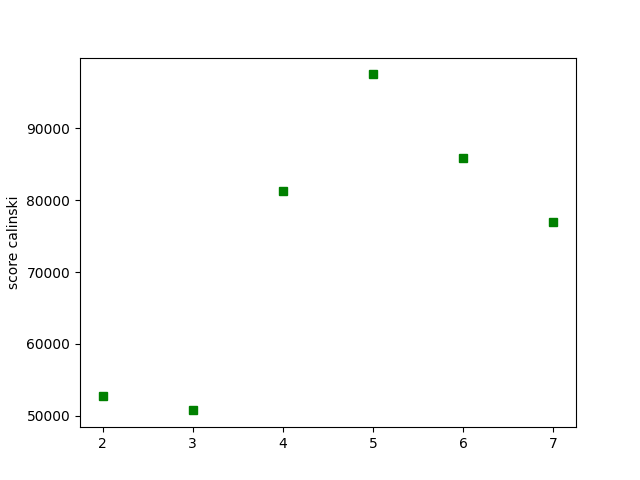
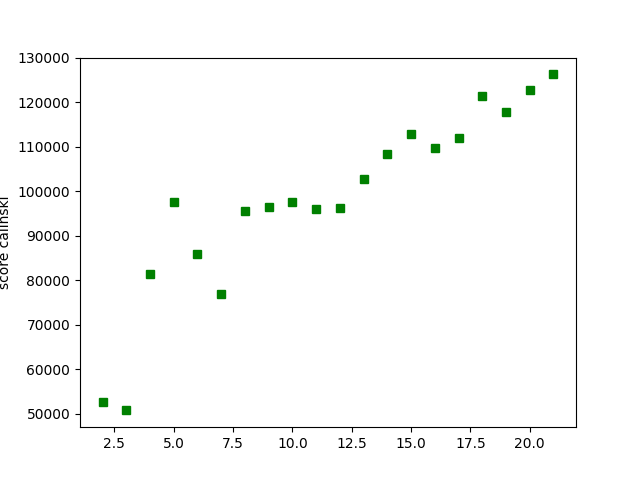
slt

diff --git a/paul.py b/paul.py
@@ -19,11 +19,9 @@ from sklearn.preprocessing import StandardScaler
 
 """Importer le fichier CSV"""
 
-from google.colab import drive
-drive.mount("/content/gdrive/")
 
-data = pd.read_csv("/content/gdrive/MyDrive/Projet_IA/data.csv", sep=";")
-data = pd.DataFrame(data)
+df = pd.read_csv('data/stat_acc_V3.csv', sep =";")  
+data = pd.DataFrame(df)
 
 """Préparation des données"""
 
@@ -65,106 +63,106 @@ Analayse en Composante Principale
 
 from sklearn.preprocessing import StandardScaler
 
-features = ['athmo_num', 'etat_surf_num', 'lum_num', 'weight', 'age']
-x = data.loc[:, features].values
-y = data.loc[:,['gravity']].values
+# features = ['athmo_num', 'etat_surf_num', 'lum_num', 'weight', 'age']
+# x = data.loc[:, features].values
+# y = data.loc[:,['gravity']].values
 
-scaler = StandardScaler()
-x = scaler.fit_transform(x)
+# scaler = StandardScaler()
+# x = scaler.fit_transform(x)
 
-from sklearn.decomposition import PCA
-pca = PCA(n_components=2)
-x_reduit = pca.fit_transform(x)
+# from sklearn.decomposition import PCA
+# pca = PCA(n_components=2)
+# x_reduit = pca.fit_transform(x)
 
-principalDf = pd.DataFrame(data = x_reduit, columns = ['principal component 1', 'principal component 2'])
-finalDf = pd.concat([principalDf, data[['gravity']]], axis = 1)
+# principalDf = pd.DataFrame(data = x_reduit, columns = ['principal component 1', 'principal component 2'])
+# finalDf = pd.concat([principalDf, data[['gravity']]], axis = 1)
 
 """Visualisation"""
 
 import matplotlib.pyplot as plt
 
-fig = plt.figure(figsize = (8,8))
-ax = fig.add_subplot(1,1,1)
-ax.set_xlabel('Principal Component 1', fontsize = 15)
-ax.set_ylabel('Principal Component 2', fontsize = 15)
-ax.set_title('2 component PCA', fontsize = 20)
+# fig = plt.figure(figsize = (8,8))
+# ax = fig.add_subplot(1,1,1)
+# ax.set_xlabel('Principal Component 1', fontsize = 15)
+# ax.set_ylabel('Principal Component 2', fontsize = 15)
+# ax.set_title('2 component PCA', fontsize = 20)
 
-targets = [2, 5, 10]
-colors = ['g', 'b', 'r']
-for target, color in zip(targets,colors):
-    indicesToKeep = finalDf['gravity'] == target
-    ax.scatter(finalDf.loc[indicesToKeep, 'principal component 1']
-               , finalDf.loc[indicesToKeep, 'principal component 2']
-               , c = color
-               , s = 50)
-ax.legend(targets)
-ax.grid()
+# targets = [2, 5, 10]
+# colors = ['g', 'b', 'r']
+# for target, color in zip(targets,colors):
+#     indicesToKeep = finalDf['gravity'] == target
+#     ax.scatter(finalDf.loc[indicesToKeep, 'principal component 1']
+#                , finalDf.loc[indicesToKeep, 'principal component 2']
+#                , c = color
+#                , s = 50)
+# ax.legend(targets)
+# ax.grid()
 
 """# Support Vector Machine"""
 
-from sklearn import svm
+# from sklearn import svm
 
-"""Détermination des paramètres optimaux"""
+# """Détermination des paramètres optimaux"""
 
-from sklearn.model_selection import GridSearchCV
+# from sklearn.model_selection import GridSearchCV
 
-parameters = {
-    'C': [1, 10],
-    'kernel': ['rbf'],
-    'max_iter': [1000, 2000]
-}
+# parameters = {
+#     'C': [1, 10],
+#     'kernel': ['rbf'],
+#     'max_iter': [1000, 2000]
+# }
 
-scaler = StandardScaler()
-x = scaler.fit_transform(x)
+# scaler = StandardScaler()
+# x = scaler.fit_transform(x)
 
-svc = svm.SVC()
-clf = GridSearchCV(svc, parameters)
-clf.fit(x_train, y_train)
+# svc = svm.SVC()
+# clf = GridSearchCV(svc, parameters)
+# clf.fit(x_train, y_train)
 
-#score d’échantillons bien classifiés sur le jeu de données de test
-print(clf.score(x_test, y_test)," ",clf.best_params_)
+# #score d’échantillons bien classifiés sur le jeu de données de test
+# print(clf.score(x_test, y_test)," ",clf.best_params_)
 
-svc = svm.SVC(C=1,kernel='rbf')
-svc.fit(x_train, y_train)
+# svc = svm.SVC(C=1,kernel='rbf')
+# svc.fit(x_train, y_train)
 
-y_pred = svc.predict(x_test)
+# y_pred = svc.predict(x_test)
 
-#score d’échantillons bien classifiés sur le jeu de données de test
-score_svc = accuracy_score(y_test, y_pred)
-print(score_svc)
+# #score d’échantillons bien classifiés sur le jeu de données de test
+# score_svc = accuracy_score(y_test, y_pred)
+# print(score_svc)
 
 """# Random forest"""
 
-from sklearn.ensemble import RandomForestClassifier
+# from sklearn.ensemble import RandomForestClassifier
 
-"""Détermination des paramètres optimaux"""
+# """Détermination des paramètres optimaux"""
 
 from sklearn.model_selection import GridSearchCV
 
-parameters = {
-    'bootstrap': [True,False],
-    'max_features': ['sqrt'],
-    'max_depth': [10, 20, 30, 40, 50, 60, 70, 80, 90, 100, None],
-    'min_samples_leaf': [2, 5, 10],
-    'min_samples_split': [2, 5, 10],
-    'n_estimators': [200, 400, 600, 800, 1000, 1200, 1400, 1600, 1800, 2000]
-}
+# parameters = {
+#     'bootstrap': [True,False],
+#     'max_features': ['sqrt'],
+#     'max_depth': [10, 20, 30, 40, 50, 60, 70, 80, 90, 100, None],
+#     'min_samples_leaf': [2, 5, 10],
+#     'min_samples_split': [2, 5, 10],
+#     'n_estimators': [200, 400, 600, 800, 1000, 1200, 1400, 1600, 1800, 2000]
+# }
 
-raf = RandomForestClassifier()
-clf = GridSearchCV(raf, parameters)
-clf.fit(x_train, y_train)
+# raf = RandomForestClassifier()
+# clf = GridSearchCV(raf, parameters)
+# clf.fit(x_train, y_train)
 
-#score d’échantillons bien classifiés sur le jeu de données de test
-print(clf.score(x_test, y_test)," ",clf.best_params_)
+# #score d’échantillons bien classifiés sur le jeu de données de test
+# print(clf.score(x_test, y_test)," ",clf.best_params_)
 
-raf = RandomForestClassifier()
-raf.fit(x_train, y_train)
+# raf = RandomForestClassifier()
+# raf.fit(x_train, y_train)
 
-y_pred = raf.predict(x_test)
+# y_pred = raf.predict(x_test)
 
-#score d’échantillons bien classifiés sur le jeu de données de test
-score_raf = accuracy_score(y_test, y_pred)
-print(score_raf)
+# #score d’échantillons bien classifiés sur le jeu de données de test
+# score_raf = accuracy_score(y_test, y_pred)
+# print(score_raf)
 
 """# Multilayer Perceptron"""
 
@@ -174,8 +172,45 @@ from sklearn.linear_model import Perceptron
 
 from sklearn.model_selection import GridSearchCV
 
+# parameters = {
+#     'tol': [1e-3,1e-4,1e-5,1e-6]
+# }
+
+# per = Perceptron()
+# clf = GridSearchCV(per, parameters)
+# clf.fit(x_train, y_train)
+
+# #score d’échantillons bien classifiés sur le jeu de données de test
+# print(clf.score(x_test, y_test)," ",clf.best_params_)
+
+# per = Perceptron(tol=1e-3)
+# per.fit(x_train, y_train)
+
+# y_pred = per.predict(x_test)
+
+# #score d’échantillons bien classifiés sur le jeu de données de test
+# score_per = accuracy_score(y_test, y_pred)
+# print(score_per)
+
+# """# Comparaison des modèles"""
+
+# score_max = max([score_svc, score_raf, score_per])
+# if score_max == score_svc:
+#   print("Le meilleur modèle est Support Vector Machine")
+# elif score_max == score_raf:
+#   print("Le meilleur modèle est Random Forest")
+# else:
+#   print("Le meilleur modèle est Multilayer Perceptron")
+# print(score_max,"% des prédictions sont bonnes")
+
+from sklearn.model_selection import GridSearchCV
+
 parameters = {
-    'tol': [1e-3,1e-4,1e-5,1e-6]
+    'hidden_layer_sizes': [(50,50,50), (50,100,50), (100,)],
+    'activation': ['tanh', 'relu'],
+    'solver': ['sgd', 'adam'],
+    'alpha': [0.0001, 0.05],
+    'learning_rate': ['constant','adaptive']
 }
 
 per = Perceptron()
@@ -184,23 +219,3 @@ clf.fit(x_train, y_train)
 
 #score d’échantillons bien classifiés sur le jeu de données de test
 print(clf.score(x_test, y_test)," ",clf.best_params_)
-
-per = Perceptron(tol=1e-3)
-per.fit(x_train, y_train)
-
-y_pred = per.predict(x_test)
-
-#score d’échantillons bien classifiés sur le jeu de données de test
-score_per = accuracy_score(y_test, y_pred)
-print(score_per)
-
-"""# Comparaison des modèles"""
-
-score_max = max([score_svc, score_raf, score_per])
-if score_max == score_svc:
-  print("Le meilleur modèle est Support Vector Machine")
-elif score_max == score_raf:
-  print("Le meilleur modèle est Random Forest")
-else:
-  print("Le meilleur modèle est Multilayer Perceptron")
-print(score_max,"% des prédictions sont bonnes")

diff --git a/maxime.py b/maxime.py
@@ -151,7 +151,7 @@ def metrics_test(df):
     path_davies1 = 'export/davies_sklearn.png'
     path_davies2 = 'export/davies_scratch.png'
 
-    for i in range(6):
+    for i in range(20):
         kmeans = KMeans(n_clusters=i+2, random_state=0, n_init="auto").fit(df[["latitude","longitude"]])
         silouhette = silhouette_score(df[["latitude","longitude"]], kmeans.labels_)
         plt.plot(i+2,silouhette,'-gs')
@@ -159,16 +159,16 @@ def metrics_test(df):
     plt.savefig(path_silouhette1)
     plt.close()
 
-    for i in range(6):
-        result = KMEANS(i+2,df, nb_iteration=10,methode=1)
-        labels = result[1]
-        silouhette = silhouette_score(df[["latitude","longitude"]], labels)
-        plt.plot(i+2,silouhette,'-gs')
-    plt.ylabel('score silouette')
-    plt.savefig(path_silouhette2)
-    plt.close()
+    # for i in range(6):
+    #     result = KMEANS(i+2,df, nb_iteration=10,methode=1)
+    #     labels = result[1]
+    #     silouhette = silhouette_score(df[["latitude","longitude"]], labels)
+    #     plt.plot(i+2,silouhette,'-gs')
+    # plt.ylabel('score silouette')
+    # plt.savefig(path_silouhette2)
+    # plt.close()
     print("silouhette ok")
-    for i in range(6):
+    for i in range(20):
         kmeans = KMeans(n_clusters=i+2, random_state=0, n_init="auto").fit(df[["latitude","longitude"]])
         calinski = calinski_harabasz_score(df[["latitude","longitude"]], kmeans.labels_)
         print("calinski score : ", calinski)
@@ -177,17 +177,17 @@ def metrics_test(df):
     plt.savefig(path_calinski1)
     plt.close()
 
-    for i in range(6):
-        result = KMEANS(i+2,df, nb_iteration=10,methode=1)
-        labels = result[1]
-        calinski = calinski_harabasz_score(df[["latitude","longitude"]], labels)
-        plt.plot(i+2,calinski,'-gs')
-    plt.ylabel('score calinski')
-    plt.savefig(path_calinski2)
-    plt.close()
+    # for i in range(6):
+    #     result = KMEANS(i+2,df, nb_iteration=10,methode=1)
+    #     labels = result[1]
+    #     calinski = calinski_harabasz_score(df[["latitude","longitude"]], labels)
+    #     plt.plot(i+2,calinski,'-gs')
+    # plt.ylabel('score calinski')
+    # plt.savefig(path_calinski2)
+    # plt.close()
     print("calinski ok")
 
-    for i in range(6):
+    for i in range(20):
         kmeans = KMeans(n_clusters=i+2, random_state=0, n_init="auto").fit(df[["latitude","longitude"]])
         davies = davies_bouldin_score(df[["latitude","longitude"]], kmeans.labels_)
         plt.plot(i+2,davies,'-gs')
@@ -195,25 +195,25 @@ def metrics_test(df):
     plt.savefig(path_davies1)
     plt.close()
 
-    for i in range(6):
-        result = KMEANS(i+2,df, nb_iteration=10,methode=1)
-        labels = result[1]
-        davies = davies_bouldin_score(df[["latitude","longitude"]], labels)
-        plt.plot(i+2,davies,'-gs')
-    plt.ylabel('score davies')
-    plt.savefig(path_davies2)
-    plt.close()
+    # for i in range(6):
+    #     result = KMEANS(i+2,df, nb_iteration=10,methode=1)
+    #     labels = result[1]
+    #     davies = davies_bouldin_score(df[["latitude","longitude"]], labels)
+    #     plt.plot(i+2,davies,'-gs')
+    # plt.ylabel('score davies')
+    # plt.savefig(path_davies2)
+    # plt.close()
     print("davies ok")
 
 # fit data
-# df = pd.read_csv('data/stat_acc_V3.csv', sep =";")  
-# print("data loaded !")  
-# df = fit_departement(df)
-# print("data fitted !")
+df = pd.read_csv('data/stat_acc_V3.csv', sep =";")  
+print("data loaded !")  
+df = fit_departement(df)
+print("data fitted !")
 
 # faire les tests de metrics
 
-# metrics_test(df)
+metrics_test(df)
 
 # afficher les clusters sur les maps
 
@@ -251,3 +251,7 @@ def metrics_test(df):
 # print('Execution time manual:', elapsed_time, 'seconds')
 
 
+# print(df["id_usa"].value_counts())
+
+
+# axes = df.boxplot(column='id_usa', by='hairpattern')

diff --git a/unsupervised.py b/unsupervised.py
@@ -26,27 +26,6 @@ def deg2rad(degrees):
     radians = degrees * pi / 180
     return radians
 
-# script sur l'apprentissage non supervisé de la fonctionnalité 4
-def appartient_cluster(lat,lon, clusters):
-    dist_table = []
-    cluster_index = 0
-    for j in range(len(clusters)): # 0 à k
-        dist = [math.sqrt((clusters[j][0]-lat)**2+(clusters[j][1]-lon)**2),cluster_index] # calculer la distance entre le point et le cluster j
-        cluster_index += 1
-        dist_table.append(dist)
-
-    min_dist = min(dist_table)
-    index = min_dist[1]
-
-    # créer un fichier json qui contient les coordonnées du cluster auquel appartient le point
-    aDict = {"lat_centroides":clusters[index][0], "lon_centroides":clusters[index][1]}
-    jsonString = json.dumps(aDict)
-    return jsonString
-    # jsonFile = open("cluster.json", "w")
-    # jsonFile.write(jsonString)
-    # jsonFile.close()
-
-
 def KMEANS(k,df, nb_iteration = 10,methode=3,mink=2):
 
     # get the first centroids coordinates
